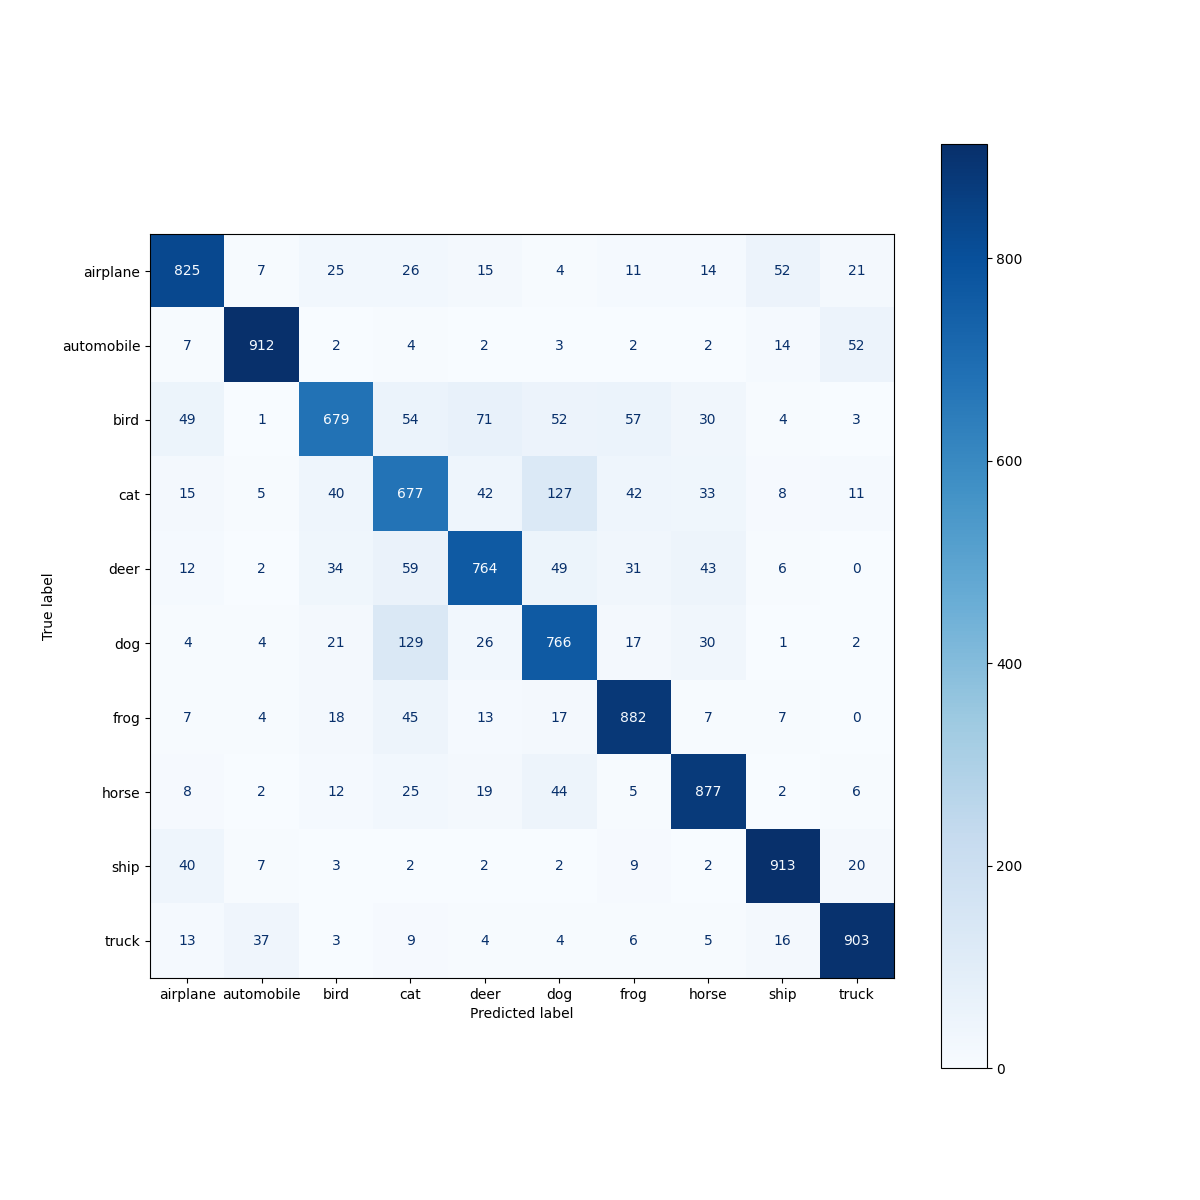
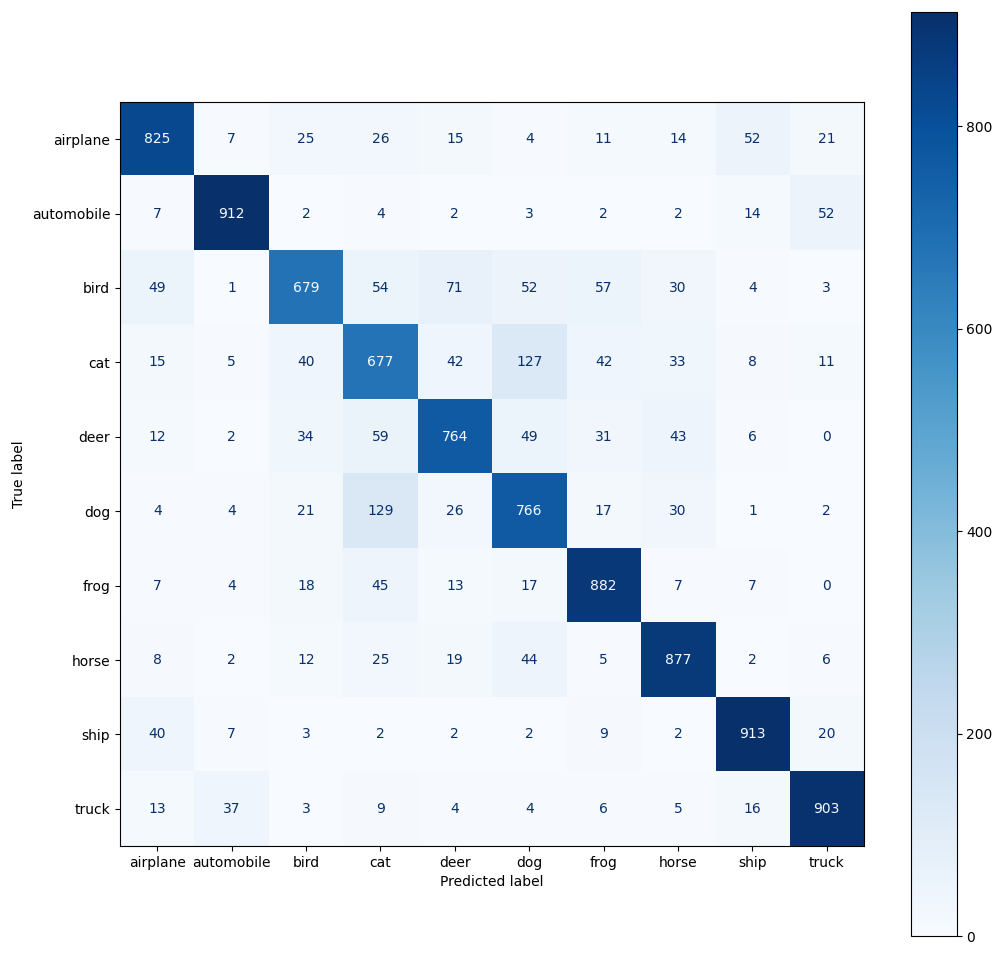
main-title change of conf. matrix

diff --git a/final.py b/final.py
@@ -1790,17 +1790,19 @@ class FinalModel():
         print(f"final model accuracy:  {accuracy * 100:.2f} %")
 
         confusion_matrix = tf.math.confusion_matrix(y_test, predictions).numpy()
-        confusion_matrix = skm.ConfusionMatrixDisplay(confusion_matrix=confusion_matrix, display_labels=["airplane", 
-                                                                                                         "automobile", 
-                                                                                                         "bird", 
-                                                                                                         "cat", 
-                                                                                                         "deer", 
-                                                                                                         "dog", 
-                                                                                                         "frog", 
-                                                                                                         "horse", 
-                                                                                                         "ship", 
-                                                                                                         "truck"])
-        confusion_matrix.plot(cmap="Blues", ax=plt.subplots(figsize=(12, 12))[1])
+        confusion_matrix = skm.ConfusionMatrixDisplay(confusion_matrix, ["airplane", 
+                                                                         "automobile", 
+                                                                         "bird", 
+                                                                         "cat", 
+                                                                         "deer", 
+                                                                         "dog", 
+                                                                         "frog", 
+                                                                         "horse", 
+                                                                         "ship", 
+                                                                         "truck"])
+        axis = plt.subplots(figsize=(12, 12))[1]
+        plt.title("Test data set condusion matrix")
+        confusion_matrix.plot(cmap="Blues", ax=axis)
         plt.savefig("confusion_matrix.png")
         plt.show()
     
